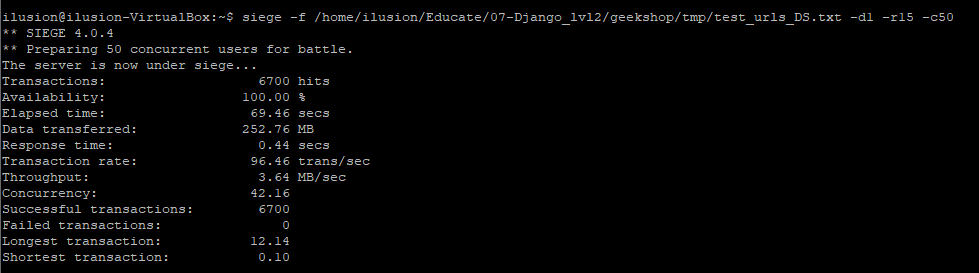
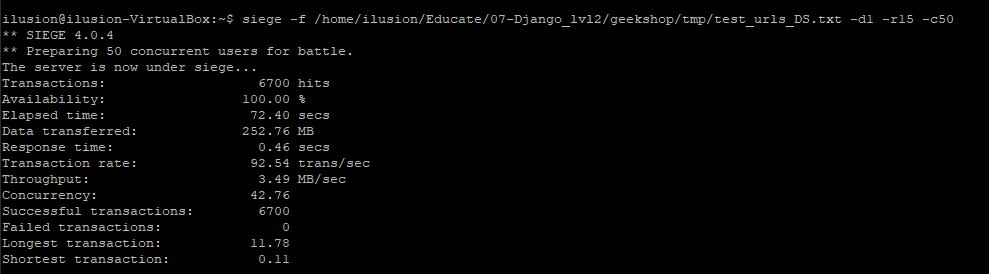
Restored settings. And added all screenshots.

Changed region(s): [[0.0, 0.0293, 0.9806, 0.967], [0.2451, 0.8205, 0.3064, 0.967]]

diff --git a/geekshop/settings.py b/geekshop/settings.py
@@ -61,7 +61,7 @@ MIDDLEWARE = [
     'django.middleware.security.SecurityMiddleware',
     'django.contrib.sessions.middleware.SessionMiddleware',
     'django.middleware.common.CommonMiddleware',
-    # 'django.middleware.csrf.CsrfViewMiddleware',
+    'django.middleware.csrf.CsrfViewMiddleware',
     'django.contrib.auth.middleware.AuthenticationMiddleware',
     'django.contrib.messages.middleware.MessageMiddleware',
     'django.middleware.clickjacking.XFrameOptionsMiddleware',
